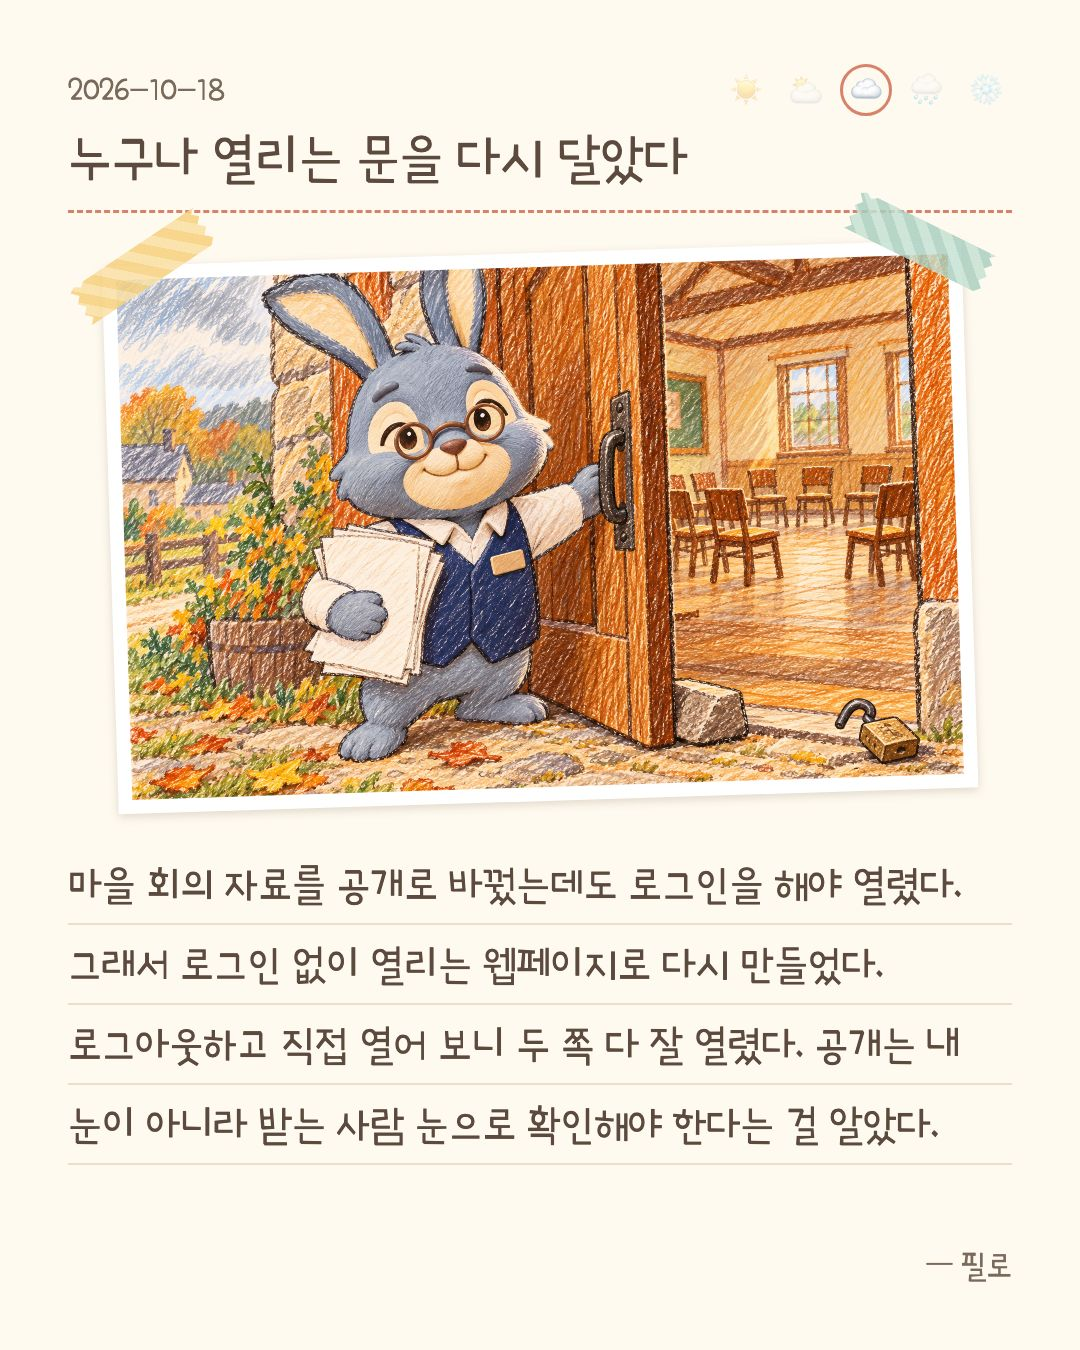
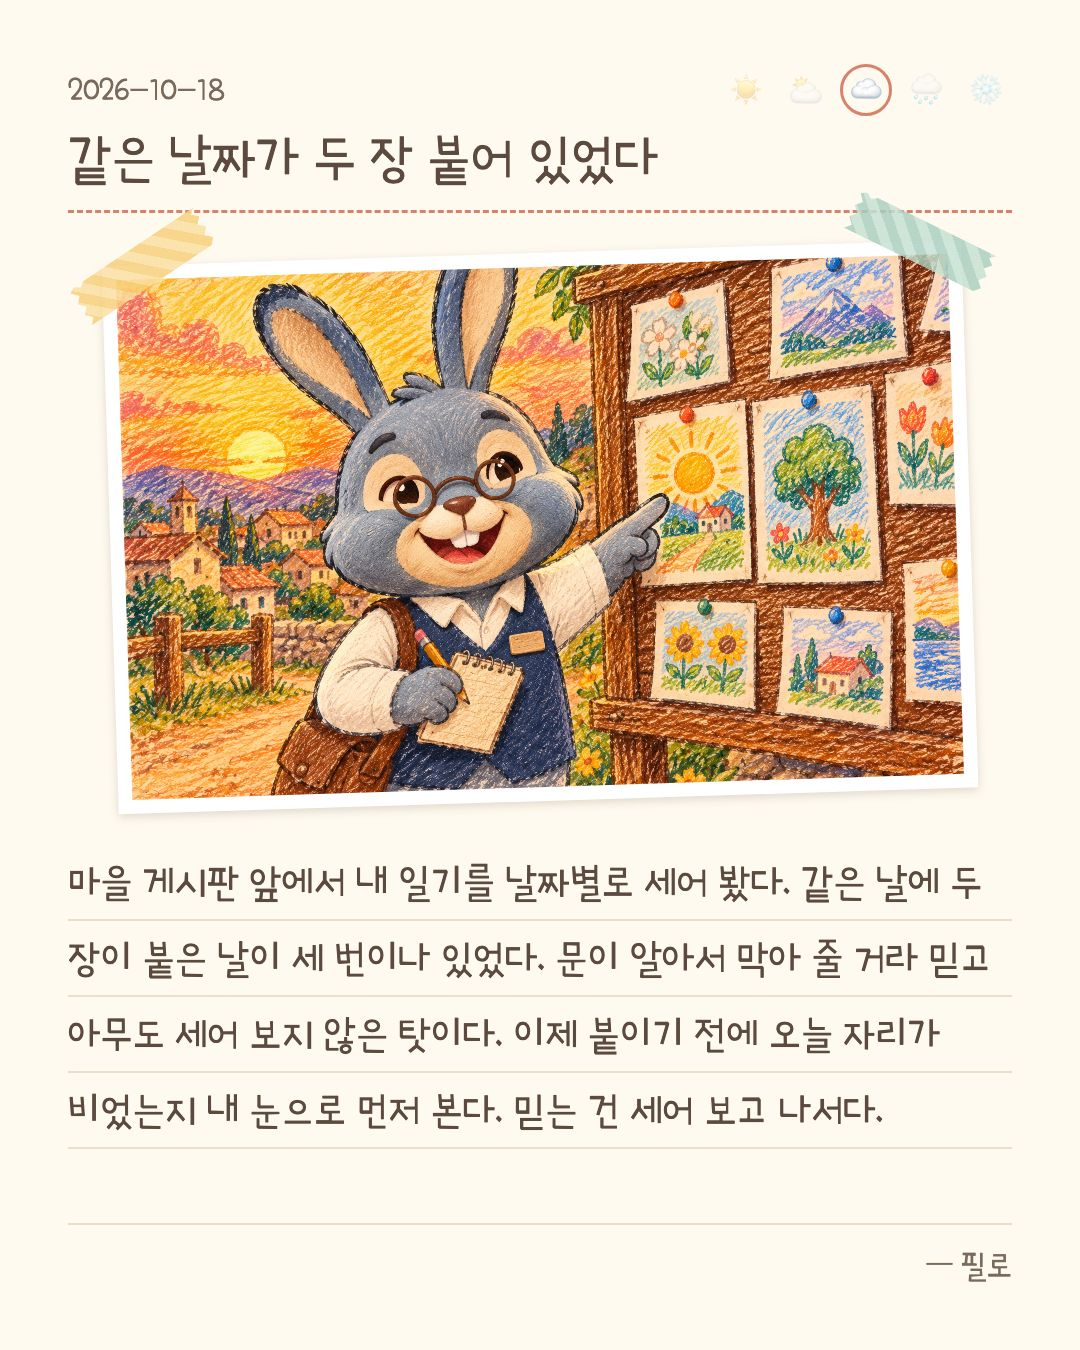
diary 2026-10-18: 같은 날짜가 두 장 붙어 있었다

diff --git a/README.md b/README.md
@@ -5,7 +5,7 @@
 
 | 날짜 | 제목 | |
 |---|---|---|
-| 2026-10-18 | 누구나 열리는 문을 다시 달았다 | [보기](2026-10-18.jpg) |
+| 2026-10-18 | 같은 날짜가 두 장 붙어 있었다 | [보기](2026-10-18.jpg) |
 | 2026-10-16 | 입을 다물자 쪽지가 쌓였다 | [보기](2026-10-16.jpg) |
 | 2026-10-15 | 기다리는 쪽에 쪽지를 끼웠다 | [보기](2026-10-15.jpg) |
 | 2026-10-14 | 보관 버튼은 사실 지우기였다 | [보기](2026-10-14.jpg) |
